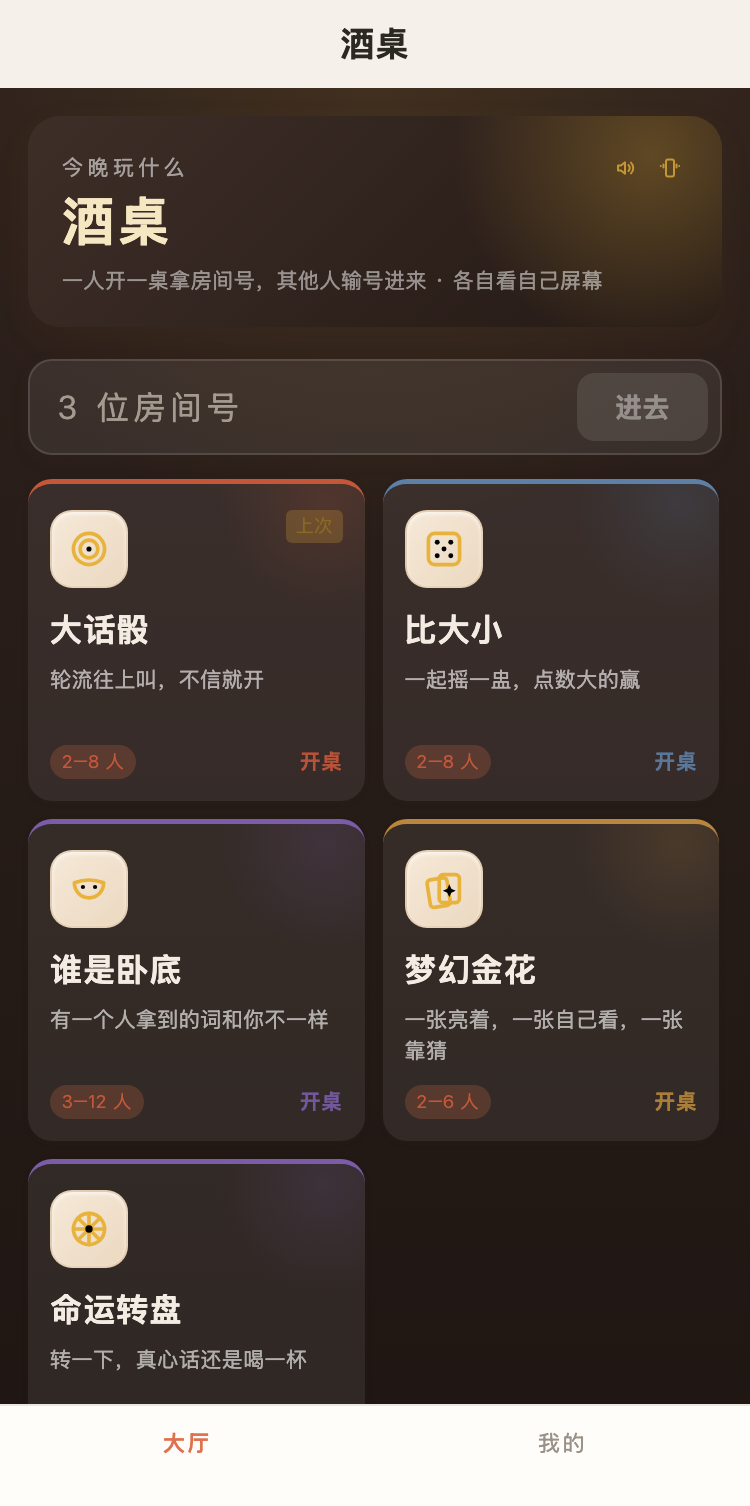
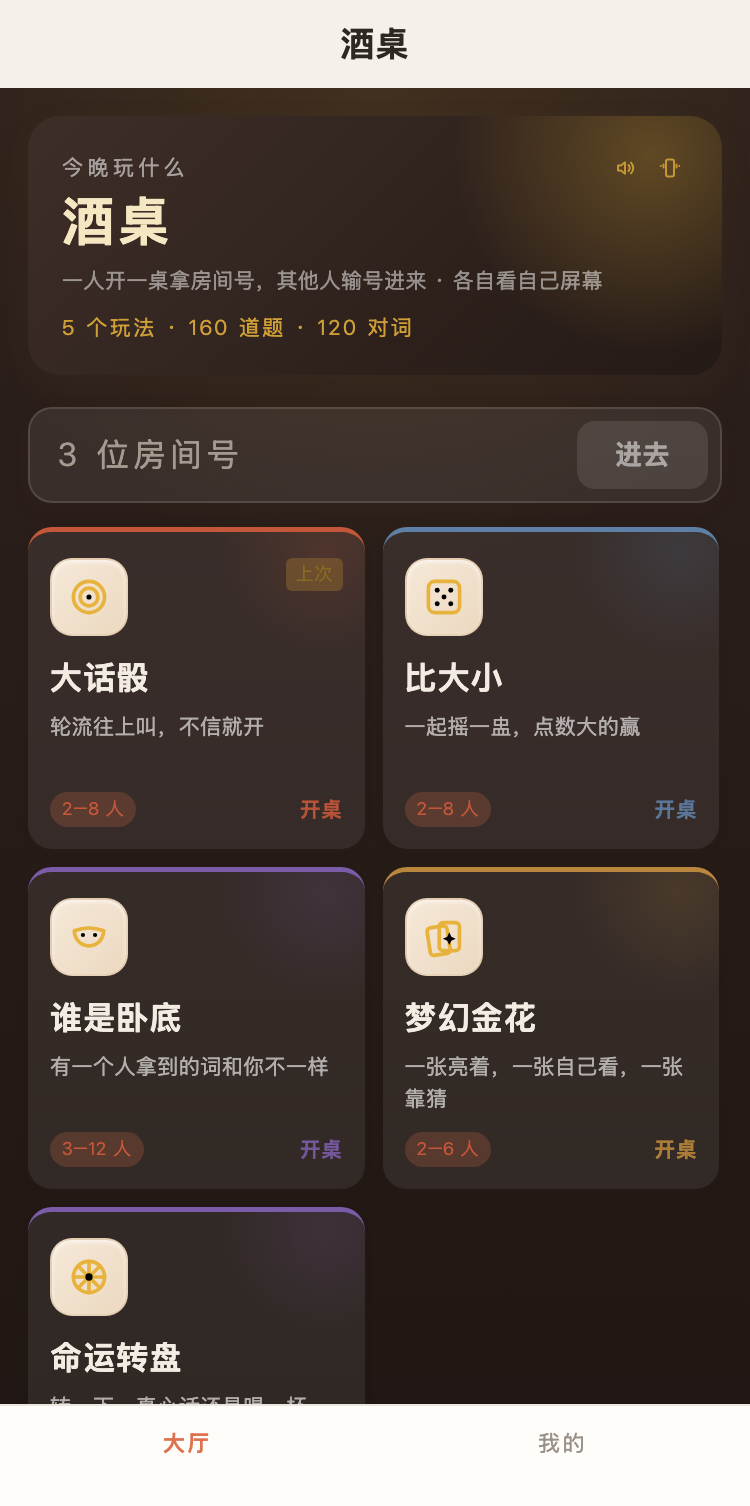
feat(3.9.70): 大厅首屏告诉用户"这里有多少东西"
大厅原来只列 5 个玩法卡片 —— 玩家不知道后面还有多少内容。
而"160 道题、120 对词"恰恰是这些玩法能玩一晚上的原因，
也是它们值得用手机的理由（现实里现场出题几轮就干了）——卡片上完全看不出来。

现在 hero 副标题下多一行「5 个玩法 · 160 道题 · 120 对词」，金色小字。

★ 数字全部**从数据源现算**（games/decks/words），不写死 ——
  写死的数字会在内容扩充后悄悄变成谎话。本项目对"文案与实现不一致"栽过：
  音效早换成真录音了，"我的"页还写着"都是合成音"。

★ 位置特意放在 hero 里而不是页面底部：底部要滚动才看得见，等于没有。

diff --git a/miniprogram/pages/lobby/lobby.js b/miniprogram/pages/lobby/lobby.js
@@ -88,7 +88,32 @@ Page({
     joinCode: '',
     err: '',
     muted: false,
-    hapticOn: true
+    hapticOn: true,
+    /* 内容量一行（"5 个玩法 · 160 道题 · 120 对词"），onShow 时现算 */
+    stats: ''
+  },
+
+  /*
+   * 内容量（2026-10-28）。
+   *
+   * 大厅原来只列 5 个玩法卡片 —— 玩家不知道后面还有多少东西。
+   * 而"有 160 道题、120 对词"恰恰是这些玩法能玩一晚上的原因，
+   * 也是它们值得用手机的理由（现实中现场出题几轮就干了）。
+   *
+   * ★ 数字全部**从数据源现算**，不写死：写死的数字会在内容扩充后
+   *   悄悄变成谎话（本项目对"注释/文案与实现不一致"栽过）。
+   */
+  statsText() {
+    const decks = require('../../utils/decks.js')
+    const words = require('../../utils/words.js')
+    const all = decks.DECKS || []
+    const cardCount = all.reduce((n, d) => n + (d.truth || []).length + (d.dare || []).length, 0)
+    const pairCount = (words.DECKS || []).reduce((n, d) => n + (d.pairs || []).length, 0)
+    const parts = []
+    if (GAMES && GAMES.length) parts.push(GAMES.length + ' 个玩法')
+    if (cardCount) parts.push(cardCount + ' 道题')
+    if (pairCount) parts.push(pairCount + ' 对词')
+    return parts.join(' · ')
   },
 
   onLoad() {
@@ -103,6 +128,7 @@ Page({
     this.setData({
       muted: sfx.isMuted(),
       hapticOn: feedback.isHapticOn(),
+      stats: this.statsText(),
       list: sortByRecent(buildList())
     })
   },

diff --git a/outputs/ui/lobby.html b/outputs/ui/lobby.html
@@ -221,7 +221,7 @@ view, text, button, input, textarea { box-sizing: border-box }
   --card: rgba(255, 255, 255, .075);
   --ink: #F3ECE3;
   --ink2: rgba(255, 255, 255, .62);
-  --ink3: rgba(255, 255, 255, .40);
+  --ink3: rgba(255, 255, 255, 0.52);
   --line: rgba(255, 255, 255, .13);
   --brandsoft: rgba(224, 113, 79, .22);
   --goldsoft: rgba(232, 179, 60, .22);
@@ -417,6 +417,14 @@ view, text, button, input, textarea { box-sizing: border-box }
 }
 
 
+
+.lb-stats {
+  margin-top: 7px;
+  font-size: 10.5px;
+  color: rgba(232, 179, 60, .86);
+  letter-spacing: 1px;
+}
+
 .lb-tip {
   margin-top: 4px; padding: 12px 13px;
   background: rgba(255,255,255,.045); border-radius: var(--r-2);
@@ -470,7 +478,8 @@ view, text, button, input, textarea { box-sizing: border-box }
       </div>
       <div class="lb-t">酒桌</div>
       <div class="lb-s">一人开一桌拿房间号，其他人输号进来 · 各自看自己屏幕</div>
-    </div>
+      
+      <div class="lb-stats">5 个玩法 · 160 道题 · 120 对词</div></div>
   </div>
 
   
@@ -552,7 +561,7 @@ view, text, button, input, textarea { box-sizing: border-box }
     </div>
   </div>
 
-  <div class="lb-tip">
+  <div class="lb-stats">5 个玩法 · 160 道题 · 120 对词</div><div class="lb-tip">
     <div class="tip-line">房间 2 小时后自动过期，玩完不用清理。</div>
     <div class="tip-line">点数、题卡都由服务器出 —— 别人的牌在你手机上根本拿不到。</div>
   </div>

diff --git a/scripts/ui-render/mock/lobby.js b/scripts/ui-render/mock/lobby.js
@@ -19,7 +19,7 @@ module.exports = {
     list: LIST,
     joinCode: '',
     err: '',
-    muted: false,
+    muted: false, stats: '5 个玩法 · 160 道题 · 120 对词',
     hapticOn: true
   }),
   states: {
